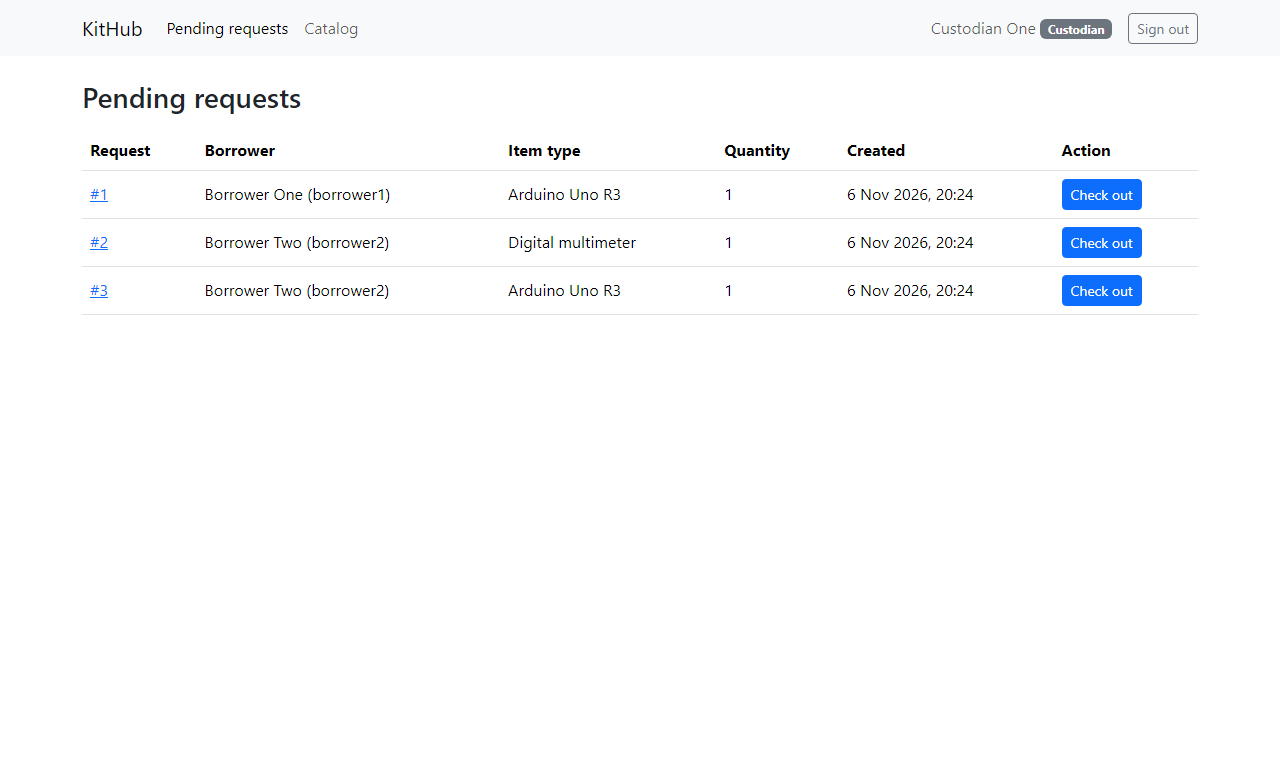
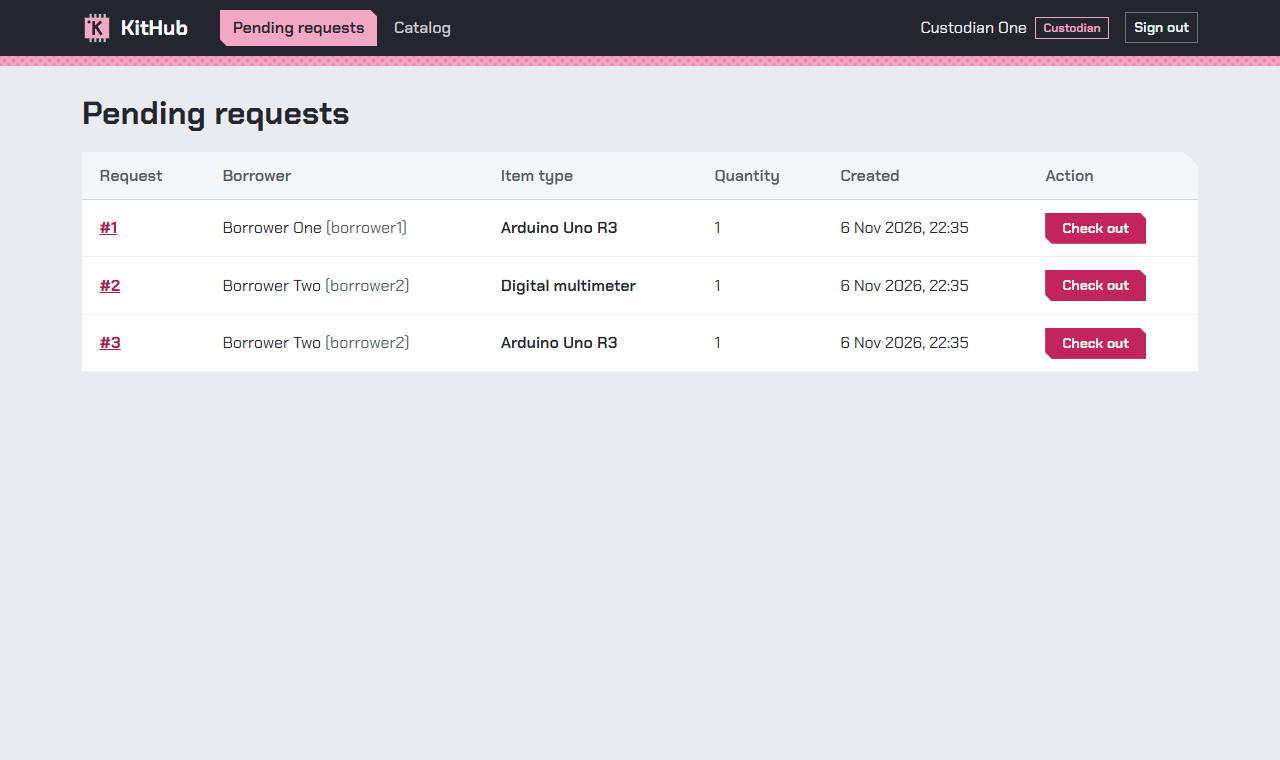
docs: re-run the manual test guide on 95ce498 and replace its screenshots (#34)

diff --git a/docs/sprints/sprint-1/manual-test-guide.md b/docs/sprints/sprint-1/manual-test-guide.md
@@ -3,7 +3,7 @@
 | Field | Value |
 | --- | --- |
 | Covers | Sprint 1: F-01 sign-in and roles, F-02 catalog and borrow request, F-03 checkout and active loan |
-| Screenshots taken on | commit `1891aa0` (branch `feature/19-checkout`, #19), local dev servers, fresh demo database |
+| Screenshots taken on | commit `95ce498` (branch `ui/34-polish`, #34, SR-04 visual style), local dev servers, fresh demo database. MT-01 to MT-17 all gave the expected result |
 | Time needed | About 20 minutes |
 | Used for | Teammate and Lab 6 UAT walkthroughs; screenshots for Deliverable 1 Part F |
 
